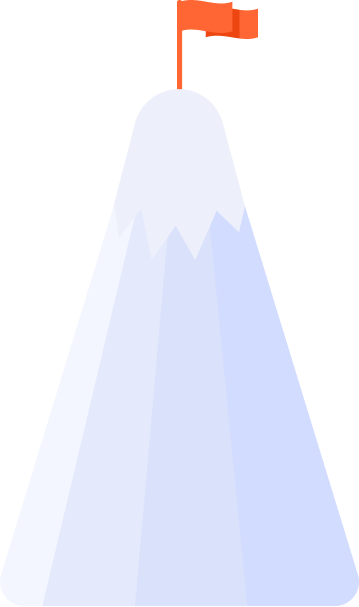
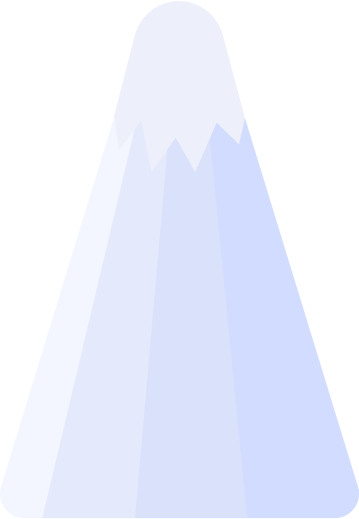
Немножечко интеравтива)

Changed region(s): [[0.5822, 0.2158, 1.0, 0.9865], [0.4903, 0.0, 0.7354, 0.1541]]

diff --git a/index.html b/index.html
@@ -9,20 +9,26 @@
 </head>
 <body>
     <div class="container">
-        <div class="mountain">
-            <img src="imges/Mountain.png" alt="mountain">
-        </div>
+        <div>
+            <div class="big-flag"><img src="imges/big-flag.png" alt=""></div>
+            <div class="steps">
+                <div class="task_btns">
+                    <div><button class="task_btn"><img src="imges/btn-complite.png" alt=""><span>Мастер участка</span></button></div>
+                    <div class="left"><button class="task_btn"><img src="imges/btn-complite.png" alt=""><span>Старший мастер</span></button></div>
+                    <div><button class="task_btn"><img src="imges/btn-complite.png" alt=""><span>Зам. начальника цеха</span></button></div>
+                    <div class="left"><button class="task_btn"><img src="imges/btn-complite.png" alt=""><span>Начальник цеха</span></button></div>
+                </div>
+            </div>
+        </div>  
+
         <div class="target_info">
+
             <div class="target_box">
                 <div class="card_header">
                     <h2> Цель №2</h2>
                     <div class="btns">
-                        <button>
-                            <img src="imges/pencil.png" alt="change">
-                        </button>
-                        <button>
-                            <img src="imges/basket.png" alt="remove">
-                        </button>
+                        <button><img src="imges/pencil.png" alt="change"></button>
+                        <button><img src="imges/basket.png" alt="remove"></button>
                     </div>
                 </div>
                 <h3>Должность</h3>
@@ -30,6 +36,30 @@
                 <h3>цех</h3>
                 <p>ЛПЦ 11: Пятиклеевой стан холодной прокатки</p>
             </div>
+
+            <div class="info_box">
+                <div class="info_header">
+                    <h3>КРИТЕРИИ ДОСТИЖЕНИЯ <button class="info" data-title="Чтобы достигнуть цели, нужно пройти все уровни">
+                    <img src="imges/info.png" alt="info">
+                </button></h3>
+                </div>
+            
+                <p>Старший мастер <img src="imges/flag.png" alt="flag"></p>
+                <div>
+                    <ul class="check-list">
+                        <li><img class="check-box" src="imges/check-all-false.png" alt="">Word</li>
+                        <li><img class="check-box" src="imges/check-all-false.png" alt="">Exel</li>
+                        <li><img class="check-box" src="imges/check-all-false.png" alt="">Powerpoint</li>
+                        <li><img class="check-box" src="imges/check-all-false.png" alt="">OEBS</li>
+                        <li><img class="check-box" src="imges/check-all-false.png" alt="">Уровень владения английским</li>
+                        <li><img class="check-box" src="imges/check-all-false.png" alt="">Результаты тестирования ЕОПЗ</li>
+                        <li><img class="check-box" src="imges/check-all-false.png" alt="">Тестирование по общим вопросам</li>
+                        <li><img class="check-box" src="imges/check-all-false.png" alt="">Тестирование по специальным вопросам</li>
+                        <li><img class="check-box" src="imges/check-all-false.png" alt="">Результат аттестации РСС</li>
+                        <li><img class="check-box" src="imges/check-all-false.png" alt="">Опыт работы руководителем</li>
+                    </ul>
+                </div>
+            </div>   
         </div>
     </div>
 

diff --git a/style/style.css b/style/style.css
@@ -6,7 +6,7 @@
     font-style: normal;
 }
 
-text {
+html {
     font-family: Roboto;
 }
 
@@ -15,10 +15,51 @@ text {
     grid-template-columns: 1fr 2fr;
     justify-content: center;
 }
-.mountain{
-    margin: 24px 52px;
+.steps{
+    background-image: url(../imges/Mountain.png);
+    background-repeat: no-repeat;
+    background-position: center;
+    height: 581px;
 }
 
+.big-flag{
+    position: relative;
+    left: 50%;
+    top: 6%;
+}
+.line{
+    position: relative;
+    top: 10px;
+    left: -172px;
+}
+.big_flag{
+    position: relative;
+    top: 10px;
+    left: -176px;
+    height: 92px;
+}
+.task_btns{
+    display: flex;
+    justify-content: space-around;
+    flex-direction: column-reverse;
+    flex-basis: content;
+    height: 100%;
+}
+.left{
+    align-self: flex-end;
+}
+.task_btn{
+    background-color:rgba(71, 194, 147, 1);
+    border-radius:10px;
+    border:none;
+    height: 23px;
+}
+.task_btn > span{
+    line-height: 20px;
+}
+.target_info{
+    margin: 24px;
+}
 .target_box {
     display: flex;
     flex-direction: column;
@@ -27,7 +68,6 @@ text {
     border-color: rgba(223, 228, 245, 1);
     border-radius: 5px;
     padding: 0 10px;
-    margin: 24px;
 }
 
 .card_header {
@@ -67,3 +107,27 @@ p{
     font-weight: bold;
     margin: 4px;
 }
+.info_header{
+    padding: 17px 0;
+}
+.info_box{
+    padding: 10px;
+}
+.info:hover::after{
+    content:attr(data-title);
+    position: relative;
+    margin: 20px;
+    padding: 10px;
+    box-shadow: 0 0 5px rgba(0,0,0,0.2);
+    border-radius:5px;
+}
+
+.check-list {
+    list-style-type: none;
+    padding:0;
+}
+
+li{
+    margin: 8px 0;
+}
+

diff --git a/script.js b/script.js
@@ -1,0 +1,17 @@
+
+let checkBox = document.querySelectorAll('.check-box');
+
+
+
+checkBox.forEach((el,i)=>{
+    checkBox[i].addEventListener('click', (e)=>{
+        if(el.classList.contains('active')){
+            el.classList.remove('active');
+            el.src='imges/check-all-false.png';
+        } else{
+            el.classList.add('active');
+            el.src='imges/check-all-true.png';
+            console.log(el);
+        }
+    });
+});
